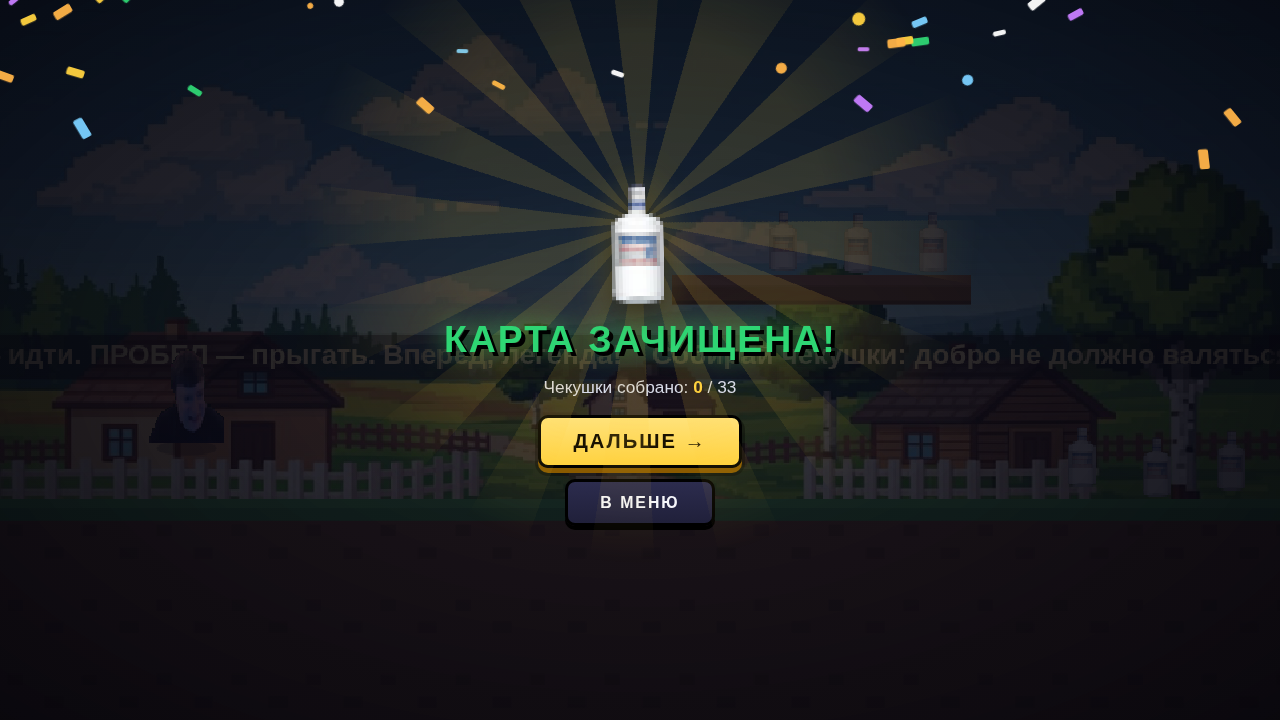
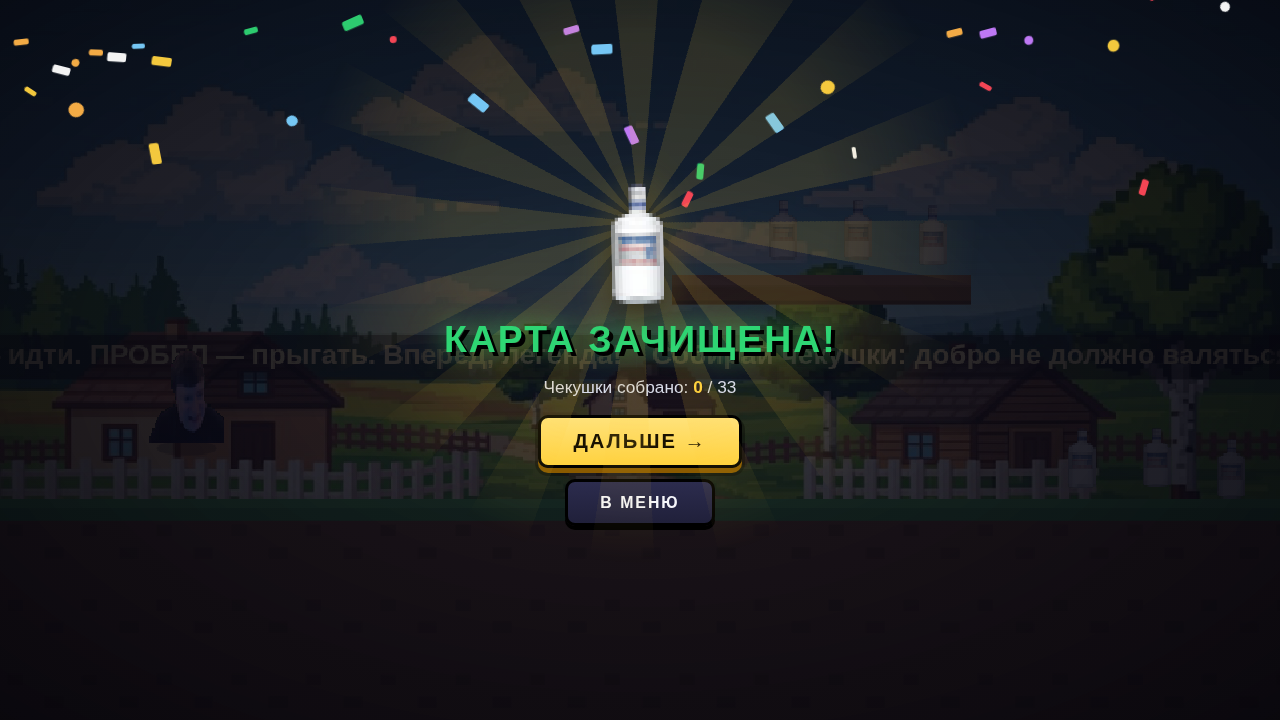
Fix typo: стритер -> стример в окне СПАСИБО ЛЕГЕНДА; sw v33

diff --git a/public/game/index.html b/public/game/index.html
@@ -501,7 +501,7 @@ html, body {
       <img class="win-bottle" src="image/checkushka.png" alt="">
       <h2 class="screen-title thanks-title">СПАСИБО, ЛЕГЕНДА!</h2>
     </div>
-    <p class="screen-text thanks-text">Мелстрой — не просто стритер,<br>но и <b>ЛЕГЕНДА</b>.<br>Эта игра — фанатское «спасибо» за движ.<br>Погнали возвращать заводы!</p>
+    <p class="screen-text thanks-text">Мелстрой — не просто стример,<br>но и <b>ЛЕГЕНДА</b>.<br>Эта игра — фанатское «спасибо» за движ.<br>Погнали возвращать заводы!</p>
     <div class="menu-buttons">
       <button id="btn-thanks-ok" class="big-btn">ПОГНАЛИ ▶</button>
     </div>

diff --git a/public/game/index.src.html b/public/game/index.src.html
@@ -45,7 +45,7 @@
       <img class="win-bottle" src="image/checkushka.png" alt="">
       <h2 class="screen-title thanks-title">СПАСИБО, ЛЕГЕНДА!</h2>
     </div>
-    <p class="screen-text thanks-text">Мелстрой — не просто стритер,<br>но и <b>ЛЕГЕНДА</b>.<br>Эта игра — фанатское «спасибо» за движ.<br>Погнали возвращать заводы!</p>
+    <p class="screen-text thanks-text">Мелстрой — не просто стример,<br>но и <b>ЛЕГЕНДА</b>.<br>Эта игра — фанатское «спасибо» за движ.<br>Погнали возвращать заводы!</p>
     <div class="menu-buttons">
       <button id="btn-thanks-ok" class="big-btn">ПОГНАЛИ ▶</button>
     </div>

diff --git a/public/game/sw.js b/public/game/sw.js
@@ -1,7 +1,7 @@
 // Service Worker — Мелстрой: Мировая Чекушка
 // Стратегия: сначала сеть (чтобы заменённые спрайты в image/ подхватывались
 // сразу), при офлайне — из кэша.
-const CACHE = 'chekushka-v32';
+const CACHE = 'chekushka-v33';
 const CORE = [
   './',
   './index.html',
